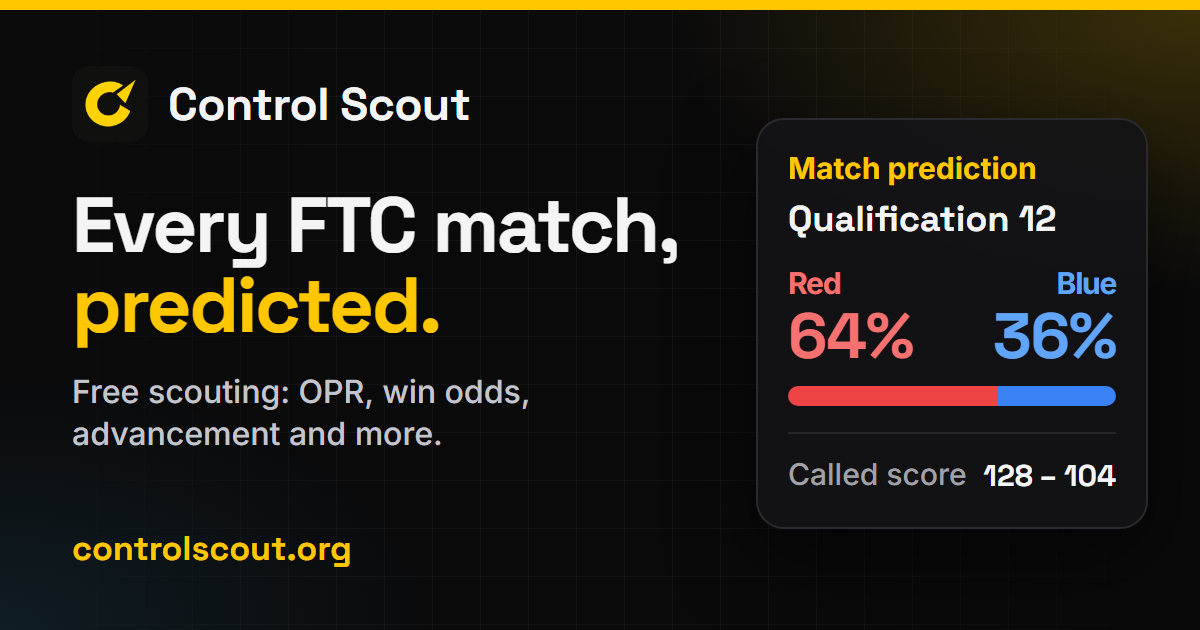
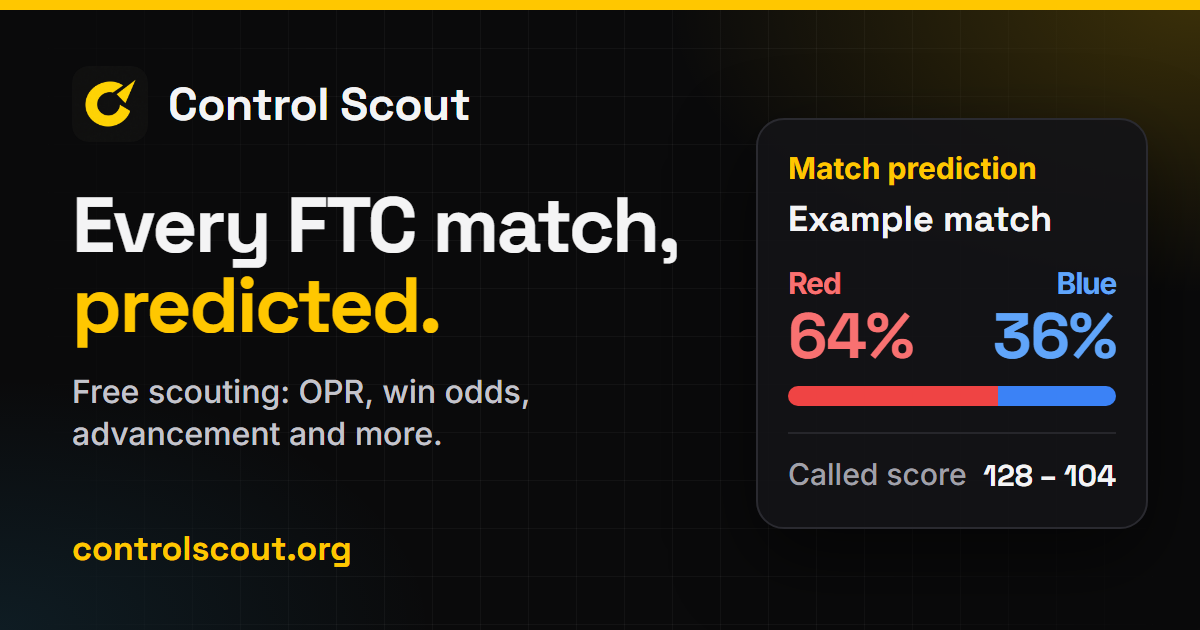
Preview card: the prediction panel is labelled Example match (an illustration, not a real match)

Changed region(s): [[0.6475, 0.3016, 0.8942, 0.3921]]

diff --git a/scripts/og-image.ts b/scripts/og-image.ts
@@ -57,7 +57,7 @@ h1 em { font-style: normal; color: #ffc700; }
 </div>
 <div class="card">
   <div class="tag">Match prediction</div>
-  <div class="title">Qualification 12</div>
+  <div class="title">Example match</div>
   <div class="odds"><div class="red"><span>Red</span>64%</div><div class="blue"><span>Blue</span>36%</div></div>
   <div class="meter"><i></i><i></i></div>
   <div class="score"><span>Called score</span><b>128 – 104</b></div>

diff --git a/CHANGELOG.md b/CHANGELOG.md
@@ -25,7 +25,7 @@ Sharing › a new link-preview card for Discord, iMessage and Slack, readable at
 - [share] Shows a match prediction the way the app does
 
 ### Changed
-- The link-preview card (`og:image`, `twitter:image`): "Every FTC match, predicted." on two lines, the site's address in gold, and a match-prediction panel (red and blue odds, the meter and a called score) drawn as the app shows one; nothing on it under 30px, so it reads at the third of its size chat apps show it. Its address is versioned (`/og-image.png?v=2`) so apps that cached the old card fetch the new one, and its alt text says what it shows. (`scripts/og-image.ts`, `public/og-image.png`, `server/seoMeta.ts`) (#1644)
+- The link-preview card (`og:image`, `twitter:image`): "Every FTC match, predicted." on two lines, the site's address in gold, and a match-prediction panel labelled "Example match" (red and blue odds, the meter and a called score) drawn as the app shows one, an illustration rather than a real match; nothing on it under 30px, so it reads at the third of its size chat apps show it. Its address is versioned (`/og-image.png?v=2`) so apps that cached the old card fetch the new one, and its alt text says what it shows. (`scripts/og-image.ts`, `public/og-image.png`, `server/seoMeta.ts`) (#1644)
 
 ## 7.2.3 — 2026-11-17
 
